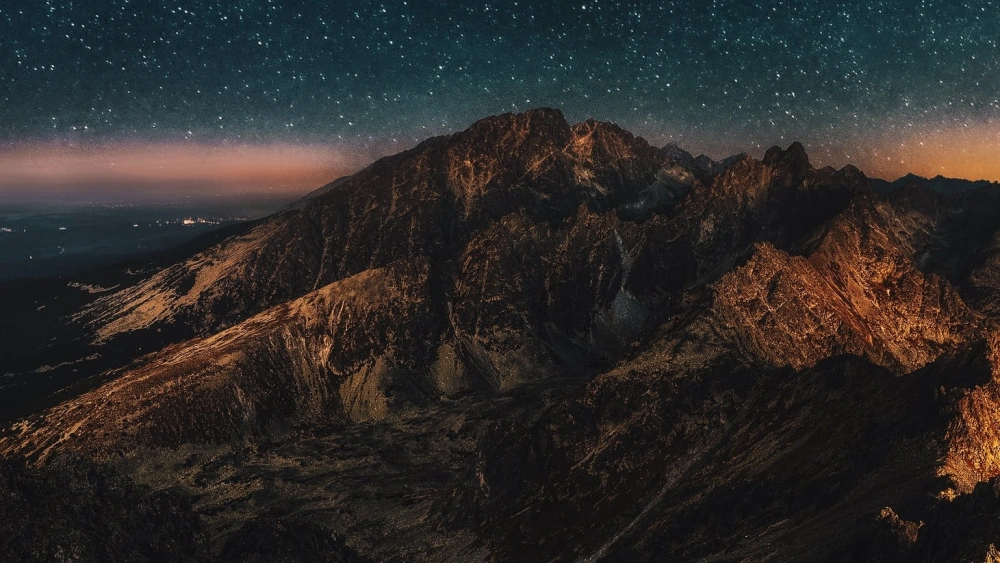
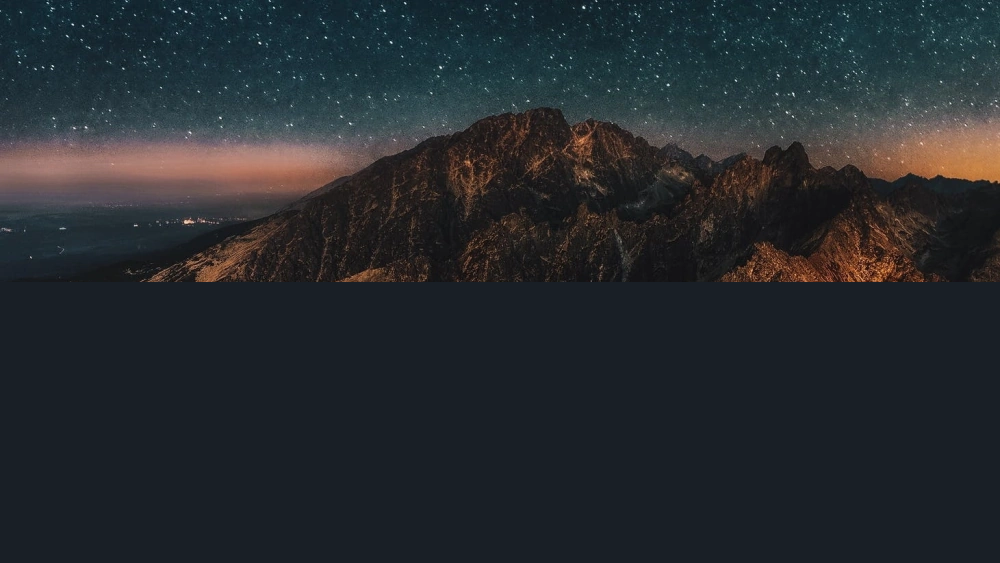
Change wallpaper position

diff --git a/src/assets/css/style.scss b/src/assets/css/style.scss
@@ -89,7 +89,7 @@ h1, h2, h3, h4, h5 {
 .bg-parallax {
   background-image: url("../img/wallpaper-header.webp");
   background-attachment: fixed;
-  background-position: center;
+  background-position: top;
   background-repeat: no-repeat;
   background-size: cover;
 }
